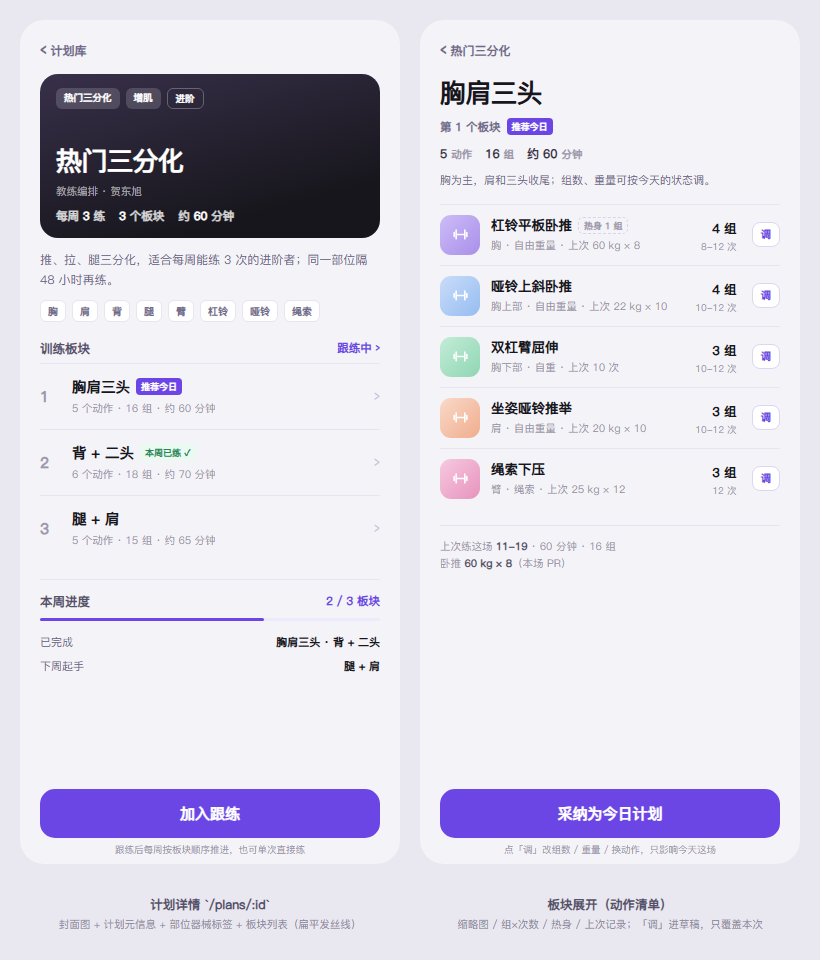
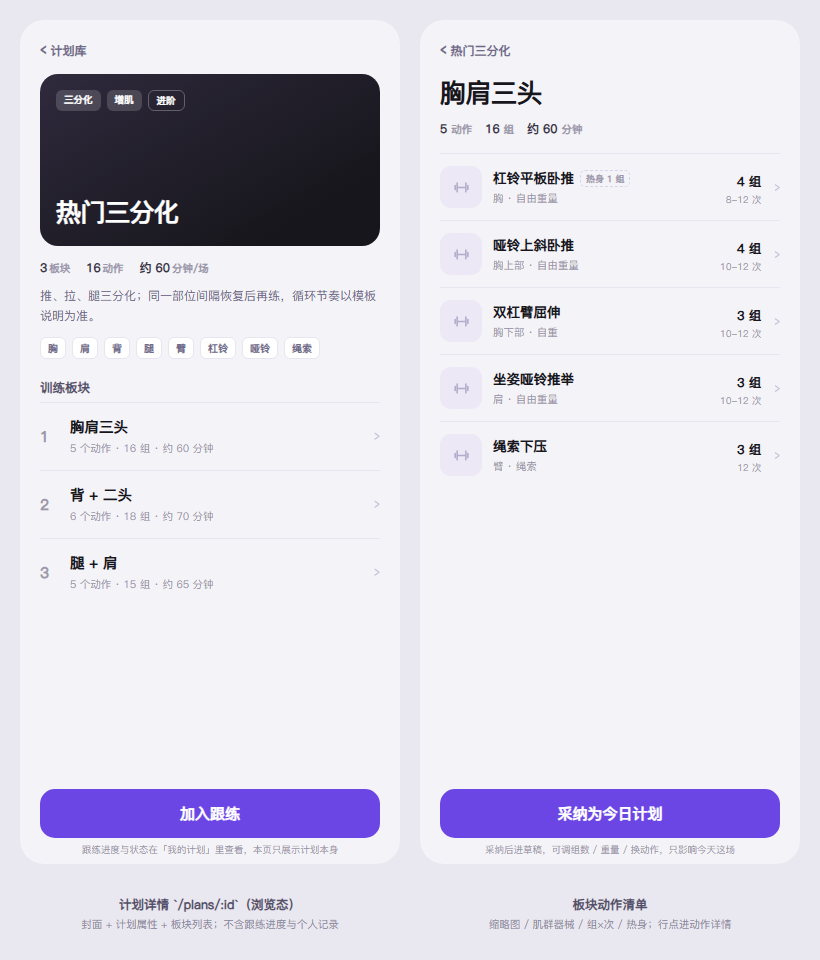
docs(design): 计划详情浏览态精简，去掉跟练状态/作者/频次推断

diff --git a/docs/design/19-计划详情.html b/docs/design/19-计划详情.html
@@ -20,69 +20,48 @@
   .nav-back { display: flex; align-items: center; gap: 4px; font-size: 12px; font-weight: 700; color: #6f6a8c; }
   .nav-back i { font-style: normal; font-size: 17px; }
 
-  /* 计划封面 */
-  .cover { margin-top: 12px; height: 164px; border-radius: 18px; position: relative; overflow: hidden; color: #fff;
-    background: linear-gradient(165deg, #38304a 0%, #17161c 78%); padding: 14px 16px; display: flex; flex-direction: column; }
+  /* 计划封面：只压标题与标签，不堆统计 */
+  .cover { margin-top: 12px; height: 172px; border-radius: 18px; position: relative; overflow: hidden; color: #fff;
+    background: linear-gradient(150deg, #2f2a3d 0%, #17161c 80%); padding: 16px; display: flex; flex-direction: column; }
   .cover-tags { display: flex; gap: 6px; }
   .cover-tag { font-size: 9.5px; font-weight: 700; background: rgba(255,255,255,.16); border-radius: 6px; padding: 3px 8px; }
   .cover-tag.level { background: transparent; border: 1px solid rgba(255,255,255,.28); }
-  .cover-title { font-size: 26px; font-weight: 800; letter-spacing: -.02em; margin-top: auto; }
-  .cover-author { font-size: 10.5px; color: rgba(255,255,255,.6); margin-top: 5px; }
-  .cover-stats { display: flex; gap: 14px; margin-top: 9px; font-size: 11.5px; color: rgba(255,255,255,.82); font-weight: 600; }
-  .cover-stats b { font-weight: 800; color: #fff; }
+  .cover-title { font-size: 25px; font-weight: 800; letter-spacing: -.02em; margin-top: auto; }
 
-  .desc { margin-top: 12px; font-size: 12px; line-height: 1.65; color: #6f6a8c; }
-  .tag-row { display: flex; flex-wrap: wrap; gap: 6px; margin-top: 10px; }
+  /* 计划本身属性：一行，扁平 */
+  .meta-row { display: flex; gap: 16px; margin-top: 13px; font-size: 12px; font-weight: 700; color: #383448; }
+  .meta-row span small { font-size: 10.5px; color: #9b97ad; font-weight: 600; margin-left: 2px; }
+  .desc { margin-top: 10px; font-size: 12px; line-height: 1.65; color: #6f6a8c; }
+  .tag-row { display: flex; flex-wrap: wrap; gap: 6px; margin-top: 11px; }
   .tag { font-size: 10px; font-weight: 700; color: #6f6a8c; border: 1px solid #e8e5f0; border-radius: 6px; padding: 3px 7px; background: #fff; }
 
-  .sec-head { display: flex; align-items: center; justify-content: space-between; margin: 18px 0 2px; }
+  .sec-head { display: flex; align-items: center; margin: 20px 0 2px; }
   .sec-title { font-size: 12.5px; font-weight: 800; color: #54506b; }
-  .sec-more { font-size: 11.5px; font-weight: 700; color: #6b46e5; }
 
-  /* 板块行（扁平 + 发丝线） */
+  /* 板块行：扁平 + 发丝线，无状态标 */
   .blocks { border-top: 1px solid #e8e5f0; margin-top: 6px; }
-  .block { display: flex; align-items: center; gap: 12px; padding: 13px 0; }
+  .block { display: flex; align-items: center; gap: 12px; padding: 14px 0; }
   .block + .block { border-top: 1px solid #e8e5f0; }
-  .block-no { width: 20px; flex: none; font-size: 15px; font-weight: 800; color: #9b97ad; font-variant-numeric: tabular-nums; }
+  .block-no { width: 18px; flex: none; font-size: 15px; font-weight: 800; color: #9b97ad; font-variant-numeric: tabular-nums; }
   .block-main { flex: 1; min-width: 0; }
-  .block-title-row { display: flex; align-items: center; gap: 6px; }
   .block-title { font-size: 14.5px; font-weight: 800; }
-  .badge { font-size: 9px; font-weight: 800; border-radius: 4px; padding: 2px 5px; }
-  .badge.today { background: #6b46e5; color: #fff; }
-  .badge.done { background: #eafaf1; color: #1f8a53; }
   .block-meta { font-size: 10.5px; color: #9b97ad; margin-top: 4px; }
   .block-chev { color: #c6c1da; font-size: 16px; flex: none; }
-
-  .prog { margin-top: 18px; border-top: 1px solid #e8e5f0; padding-top: 13px; }
-  .prog-row { display: flex; justify-content: space-between; font-size: 11px; color: #6f6a8c; padding: 4px 0; }
-  .prog-row b { color: #17161c; font-weight: 800; }
-  .prog-bar { height: 3px; border-radius: 2px; background: #eee9fb; margin-top: 8px; position: relative; }
-  .prog-bar::after { content: ""; position: absolute; left: 0; top: 0; height: 3px; width: 66%; border-radius: 2px; background: #6b46e5; }
-
-  .last { margin-top: 16px; border-top: 1px solid #e8e5f0; padding-top: 12px; font-size: 10.5px; color: #9b97ad; line-height: 1.7; }
-  .last b { color: #54506b; font-weight: 700; }
 
   .cta { position: absolute; left: 20px; right: 20px; bottom: 26px; background: #6b46e5; color: #fff; font-size: 15px; font-weight: 800; text-align: center; padding: 14px 0; border-radius: 15px; }
   .cta-note { position: absolute; left: 20px; right: 20px; bottom: 8px; text-align: center; font-size: 9.5px; color: #9b97ad; }
 
-  /* 右屏：板块展开 */
+  /* 右屏：板块动作清单 */
   .block-head { margin-top: 12px; }
   .bh-title { font-size: 26px; font-weight: 800; letter-spacing: -.02em; }
-  .bh-src { display: flex; align-items: center; gap: 6px; margin-top: 7px; font-size: 11.5px; color: #6f6a8c; font-weight: 600; }
-  .bh-stats { display: flex; gap: 13px; margin-top: 10px; font-size: 12px; font-weight: 700; color: #383448; }
-  .bh-stats small { font-size: 10.5px; color: #9b97ad; font-weight: 600; }
-  .bh-note { margin-top: 10px; font-size: 11px; color: #6f6a8c; line-height: 1.6; }
+  .bh-meta { display: flex; gap: 13px; margin-top: 9px; font-size: 12px; font-weight: 700; color: #383448; }
+  .bh-meta small { font-size: 10.5px; color: #9b97ad; font-weight: 600; }
 
-  .ex-list { border-top: 1px solid #e8e5f0; margin-top: 14px; }
-  .ex { display: flex; align-items: center; gap: 11px; padding: 10px 0; }
+  .ex-list { border-top: 1px solid #e8e5f0; margin-top: 16px; }
+  .ex { display: flex; align-items: center; gap: 11px; padding: 12px 0; }
   .ex + .ex { border-top: 1px solid #e8e5f0; }
-  .ex-thumb { width: 40px; height: 40px; border-radius: 11px; flex: none; display: flex; align-items: center; justify-content: center; }
-  .ex-thumb svg { width: 19px; height: 19px; stroke: #fff; }
-  .t1 { background: linear-gradient(135deg,#cdbcf7,#a98fe9); }
-  .t2 { background: linear-gradient(135deg,#c9dcf8,#96bdf1); }
-  .t3 { background: linear-gradient(135deg,#c3ecd7,#8fd6b4); }
-  .t4 { background: linear-gradient(135deg,#f9d9c9,#f0ad8d); }
-  .t5 { background: linear-gradient(135deg,#f6c9e0,#e793bd); }
+  .ex-thumb { width: 42px; height: 42px; border-radius: 11px; flex: none; background: #ece8f5; display: flex; align-items: center; justify-content: center; }
+  .ex-thumb svg { width: 19px; height: 19px; stroke: #b3abc9; }
   .ex-main { flex: 1; min-width: 0; }
   .ex-name-row { display: flex; align-items: center; gap: 6px; }
   .ex-name { font-size: 13.5px; font-weight: 700; }
@@ -91,34 +70,34 @@
   .ex-sets { flex: none; text-align: right; }
   .ex-sets b { font-size: 12.5px; font-weight: 800; font-variant-numeric: tabular-nums; }
   .ex-sets span { display: block; font-size: 9.5px; color: #9b97ad; margin-top: 2px; }
-  .ex-edit { flex: none; font-size: 10.5px; font-weight: 800; color: #6b46e5; border: 1px solid #ddd6f3; background: #fff; border-radius: 8px; padding: 4px 8px; margin-left: 4px; }
+  .ex-chev { color: #c6c1da; font-size: 15px; flex: none; margin-left: 2px; }
 </style>
 </head>
 <body style="width:820px;height:900px;">
 <main data-canvas-root style="width:820px;height:900px;">
   <div class="stage">
 
-    <!-- 左：计划详情（整份计划 + 板块列表） -->
+    <!-- 左：计划详情（浏览态，只含计划本身信息） -->
     <div class="screen">
       <div class="wrap">
         <div class="nav"><div class="nav-back"><i>‹</i> 计划库</div></div>
 
         <div class="cover">
           <div class="cover-tags">
-            <span class="cover-tag">热门三分化</span>
+            <span class="cover-tag">三分化</span>
             <span class="cover-tag">增肌</span>
             <span class="cover-tag level">进阶</span>
           </div>
           <div class="cover-title">热门三分化</div>
-          <div class="cover-author">教练编排 · 贺东旭</div>
-          <div class="cover-stats">
-            <span>每周 <b>3</b> 练</span>
-            <span><b>3</b> 个板块</span>
-            <span>约 <b>60</b> 分钟</span>
-          </div>
         </div>
 
-        <div class="desc">推、拉、腿三分化，适合每周能练 3 次的进阶者；同一部位隔 48 小时再练。</div>
+        <div class="meta-row">
+          <span>3<small>板块</small></span>
+          <span>16<small>动作</small></span>
+          <span>约 60<small>分钟/场</small></span>
+        </div>
+
+        <div class="desc">推、拉、腿三分化；同一部位间隔恢复后再练，循环节奏以模板说明为准。</div>
 
         <div class="tag-row">
           <span class="tag">胸</span><span class="tag">肩</span><span class="tag">背</span>
@@ -126,18 +105,12 @@
           <span class="tag">杠铃</span><span class="tag">哑铃</span><span class="tag">绳索</span>
         </div>
 
-        <div class="sec-head">
-          <div class="sec-title">训练板块</div>
-          <div class="sec-more">跟练中 ›</div>
-        </div>
+        <div class="sec-head"><div class="sec-title">训练板块</div></div>
         <div class="blocks">
           <div class="block">
             <div class="block-no">1</div>
             <div class="block-main">
-              <div class="block-title-row">
-                <span class="block-title">胸肩三头</span>
-                <span class="badge today">推荐今日</span>
-              </div>
+              <div class="block-title">胸肩三头</div>
               <div class="block-meta">5 个动作 · 16 组 · 约 60 分钟</div>
             </div>
             <div class="block-chev">›</div>
@@ -145,10 +118,7 @@
           <div class="block">
             <div class="block-no">2</div>
             <div class="block-main">
-              <div class="block-title-row">
-                <span class="block-title">背 + 二头</span>
-                <span class="badge done">本周已练 ✓</span>
-              </div>
+              <div class="block-title">背 + 二头</div>
               <div class="block-meta">6 个动作 · 18 组 · 约 70 分钟</div>
             </div>
             <div class="block-chev">›</div>
@@ -156,102 +126,88 @@
           <div class="block">
             <div class="block-no">3</div>
             <div class="block-main">
-              <div class="block-title-row"><span class="block-title">腿 + 肩</span></div>
+              <div class="block-title">腿 + 肩</div>
               <div class="block-meta">5 个动作 · 15 组 · 约 65 分钟</div>
             </div>
             <div class="block-chev">›</div>
           </div>
         </div>
-
-        <div class="prog">
-          <div class="sec-head" style="margin-top:0;">
-            <div class="sec-title">本周进度</div>
-            <div class="sec-more">2 / 3 板块</div>
-          </div>
-          <div class="prog-bar"></div>
-          <div class="prog-row" style="margin-top:9px;"><span>已完成</span><b>胸肩三头 · 背 + 二头</b></div>
-          <div class="prog-row"><span>下周起手</span><b>腿 + 肩</b></div>
-        </div>
       </div>
       <div class="cta">加入跟练</div>
-      <div class="cta-note">跟练后每周按板块顺序推进，也可单次直接练</div>
+      <div class="cta-note">跟练进度与状态在「我的计划」里查看，本页只展示计划本身</div>
     </div>
 
-    <!-- 右：板块展开（动作清单） -->
+    <!-- 右：板块动作清单 -->
     <div class="screen">
       <div class="wrap">
         <div class="nav"><div class="nav-back"><i>‹</i> 热门三分化</div></div>
 
         <div class="block-head">
           <div class="bh-title">胸肩三头</div>
-          <div class="bh-src">第 1 个板块 <span class="badge today">推荐今日</span></div>
-          <div class="bh-stats">
+          <div class="bh-meta">
             <span>5 <small>动作</small></span>
             <span>16 <small>组</small></span>
             <span>约 60 <small>分钟</small></span>
           </div>
-          <div class="bh-note">胸为主，肩和三头收尾；组数、重量可按今天的状态调。</div>
         </div>
 
         <div class="ex-list">
           <div class="ex">
-            <div class="ex-thumb t1"><svg viewBox="0 0 24 24" fill="none" stroke-width="2" stroke-linecap="round"><path d="M6.5 6.5v11M17.5 6.5v11M4 9.5v5M20 9.5v5M6.5 12h11"/></svg></div>
+            <div class="ex-thumb"><svg viewBox="0 0 24 24" fill="none" stroke-width="2" stroke-linecap="round"><path d="M6.5 6.5v11M17.5 6.5v11M4 9.5v5M20 9.5v5M6.5 12h11"/></svg></div>
             <div class="ex-main">
               <div class="ex-name-row"><span class="ex-name">杠铃平板卧推</span><span class="warm">热身 1 组</span></div>
-              <div class="ex-meta">胸 · 自由重量 · 上次 60 kg × 8</div>
+              <div class="ex-meta">胸 · 自由重量</div>
             </div>
             <div class="ex-sets"><b>4 组</b><span>8-12 次</span></div>
-            <div class="ex-edit">调</div>
+            <div class="ex-chev">›</div>
           </div>
           <div class="ex">
-            <div class="ex-thumb t2"><svg viewBox="0 0 24 24" fill="none" stroke-width="2" stroke-linecap="round"><path d="M6.5 6.5v11M17.5 6.5v11M4 9.5v5M20 9.5v5M6.5 12h11"/></svg></div>
+            <div class="ex-thumb"><svg viewBox="0 0 24 24" fill="none" stroke-width="2" stroke-linecap="round"><path d="M6.5 6.5v11M17.5 6.5v11M4 9.5v5M20 9.5v5M6.5 12h11"/></svg></div>
             <div class="ex-main">
               <div class="ex-name-row"><span class="ex-name">哑铃上斜卧推</span></div>
-              <div class="ex-meta">胸上部 · 自由重量 · 上次 22 kg × 10</div>
+              <div class="ex-meta">胸上部 · 自由重量</div>
             </div>
             <div class="ex-sets"><b>4 组</b><span>10-12 次</span></div>
-            <div class="ex-edit">调</div>
+            <div class="ex-chev">›</div>
           </div>
           <div class="ex">
-            <div class="ex-thumb t3"><svg viewBox="0 0 24 24" fill="none" stroke-width="2" stroke-linecap="round"><path d="M6.5 6.5v11M17.5 6.5v11M4 9.5v5M20 9.5v5M6.5 12h11"/></svg></div>
+            <div class="ex-thumb"><svg viewBox="0 0 24 24" fill="none" stroke-width="2" stroke-linecap="round"><path d="M6.5 6.5v11M17.5 6.5v11M4 9.5v5M20 9.5v5M6.5 12h11"/></svg></div>
             <div class="ex-main">
               <div class="ex-name-row"><span class="ex-name">双杠臂屈伸</span></div>
-              <div class="ex-meta">胸下部 · 自重 · 上次 10 次</div>
+              <div class="ex-meta">胸下部 · 自重</div>
             </div>
             <div class="ex-sets"><b>3 组</b><span>10-12 次</span></div>
-            <div class="ex-edit">调</div>
+            <div class="ex-chev">›</div>
           </div>
           <div class="ex">
-            <div class="ex-thumb t4"><svg viewBox="0 0 24 24" fill="none" stroke-width="2" stroke-linecap="round"><path d="M6.5 6.5v11M17.5 6.5v11M4 9.5v5M20 9.5v5M6.5 12h11"/></svg></div>
+            <div class="ex-thumb"><svg viewBox="0 0 24 24" fill="none" stroke-width="2" stroke-linecap="round"><path d="M6.5 6.5v11M17.5 6.5v11M4 9.5v5M20 9.5v5M6.5 12h11"/></svg></div>
             <div class="ex-main">
               <div class="ex-name-row"><span class="ex-name">坐姿哑铃推举</span></div>
-              <div class="ex-meta">肩 · 自由重量 · 上次 20 kg × 10</div>
+              <div class="ex-meta">肩 · 自由重量</div>
             </div>
             <div class="ex-sets"><b>3 组</b><span>10-12 次</span></div>
-            <div class="ex-edit">调</div>
+            <div class="ex-chev">›</div>
           </div>
           <div class="ex">
-            <div class="ex-thumb t5"><svg viewBox="0 0 24 24" fill="none" stroke-width="2" stroke-linecap="round"><path d="M6.5 6.5v11M17.5 6.5v11M4 9.5v5M20 9.5v5M6.5 12h11"/></svg></div>
+            <div class="ex-thumb"><svg viewBox="0 0 24 24" fill="none" stroke-width="2" stroke-linecap="round"><path d="M6.5 6.5v11M17.5 6.5v11M4 9.5v5M20 9.5v5M6.5 12h11"/></svg></div>
             <div class="ex-main">
               <div class="ex-name-row"><span class="ex-name">绳索下压</span></div>
-              <div class="ex-meta">臂 · 绳索 · 上次 25 kg × 12</div>
+              <div class="ex-meta">臂 · 绳索</div>
             </div>
             <div class="ex-sets"><b>3 组</b><span>12 次</span></div>
-            <div class="ex-edit">调</div>
+            <div class="ex-chev">›</div>
           </div>
         </div>
-
-        <div class="last">上次练这场 <b>11-19</b> · 60 分钟 · 16 组<br>卧推 <b>60 kg × 8</b>（本场 PR）</div>
       </div>
       <div class="cta">采纳为今日计划</div>
-      <div class="cta-note">点「调」改组数 / 重量 / 换动作，只影响今天这场</div>
+      <div class="cta-note">采纳后进草稿，可调组数 / 重量 / 换动作，只影响今天这场</div>
     </div>
 
   </div>
 
   <div class="stage">
-    <div class="caption">计划详情 `/plans/:id`<small>封面图 + 计划元信息 + 部位器械标签 + 板块列表（扁平发丝线）</small></div>
-    <div class="caption">板块展开（动作清单）<small>缩略图 / 组×次数 / 热身 / 上次记录；「调」进草稿，只覆盖本次</small></div>
+    <div class="caption">计划详情 `/plans/:id`（浏览态）<small>封面 + 计划属性 + 板块列表；不含跟练进度与个人记录</small></div>
+    <div class="caption">板块动作清单<small>缩略图 / 肌群器械 / 组×次 / 热身；行点进动作详情</small></div>
   </div>
 </main>
 </body>

diff --git a/docs/13-H5页面优化-逐页工单.md b/docs/13-H5页面优化-逐页工单.md
@@ -625,11 +625,13 @@ C 态的目标版式（见桌面 `03-今日页-训练中.png`）：
 - 计划卡片标签建议维度：分化方式、性别（男/女/通用）、目标（增肌/减脂/塑形/力量）、水平；具体标签集合以后台配置为准。
 - 锻炼 / 营养计划切换条预留：营养计划后期再接；本期营养侧只有教练 AI 问答。
 - 计划库全列表 `/plans` 架构：搜索栏 + 锻炼/营养切换 + 分类 chips（横向滑动）+ 分组 2 列封面网格；完整功能收在内部页，训练 tab 主表面只放 2 张预览卡。
-- 计划详情 `/plans/:id`（设计稿 `docs/design/19-计划详情.html/.png`，2026-11-23 改版为双屏）：
-  - **左屏 = 整份计划**：封面图（`cover_url`，深色渐变兜底）+ 标签行（分化/目标/水平）+ 标题 + 作者 + 每周练几次/板块数/时长 + 一句描述 + 部位与器械标签 + 板块列表（扁平发丝线，序号 + 板块名 + 动作数/组数/时长 + `推荐今日` / `本周已练` 状态）+ 本周进度（`week_progress`）+ 底部固定 CTA「加入跟练」。**层级对齐后端 `PlanTemplate → PlanBlock → PlanExercise`**：点进计划先看到整份计划，再点板块看动作；旧版直接画单板块与真实层级不符，已废弃。
-  - **右屏 = 板块展开**：板块名 + 第 N 个板块 + 动作数/组数/时长 + 一句要点；动作行 = 缩略图（`thumb_url` 经 `/api/exercises/resolve`，无图渐变占位）+ 名称 + 目标肌群/器械 + 上次记录 + 组数 × 次数 + 热身组虚线标；行右侧「调」进草稿；底部固定 CTA「采纳为今日计划」。
-  - **组数 / 重量 / 次数的改动口径（已在代码核对）**：`PlanExerciseRow` 只有 `target_sets` / `target_reps` / `warmup_sets`，**没有 target_weight**，计划模板在 H5 侧只读。真正的改动发生在 `POST /plans/{id}/expand` 生成的草稿卡 → `DraftCard`（目标重量 `WeightStepper` 步进 2.5kg、组数 1–10、次数 6-8/8-10/10-12/12-15/力竭、换动作）→ `POST /api/training/adopt` 按 `items` 写入今日场次。**即：改动只覆盖今天这场，不改模板、不加新接口**；详情页动作行因此只读展示 + 「调」入口，不做成可直接改模板。
-  - 周日历选择条本期不画（需后端给计划板块补星期字段），左屏改用 `推荐今日` 标记 + 本周进度替代。
+- 计划详情 `/plans/:id`（设计稿 `docs/design/19-计划详情.html/.png`，2026-11-23 二次精简）：
+  - **定位是浏览态，只展示计划本身**：不掺跟练状态。本期明确砍掉：板块 `推荐今日` / `本周已练` 标、本周进度条、上次练这场的记录、动作行「上次 xx kg × n」、作者署名。这些属于个人训练状态，归「我的计划」与今日页展示，计划库浏览页不出现。
+  - **左屏 = 整份计划**：封面图（`cover_url`，深色渐变兜底）+ 标签行（分化/目标/水平）+ 标题；下方一行计划属性（板块数 / 动作数 / 单场时长）+ 一句描述 + 部位与器械标签；板块列表（扁平发丝线：序号 + 板块名 + 动作数/组数/时长，无状态标）；底部固定 CTA「加入跟练」。**层级对齐后端 `PlanTemplate → PlanBlock → PlanExercise`**：点进计划先看到整份计划，再点板块看动作；旧版直接画单板块与真实层级不符，已废弃。
+  - **右屏 = 板块动作清单**：板块名 + 动作数/组数/时长；动作行 = 缩略图（`thumb_url` 经 `/api/exercises/resolve`，无图中性占位）+ 名称 + 肌群/器械 + 组数 × 次数 + 热身组虚线标，行右侧箭头进动作详情；底部固定 CTA「采纳为今日计划」。
+  - **节奏文案口径（勿前端推断频次）**：三分化是「把训练拆成 3 个部位板块」的分化方式，**不等于每周必须练 3 次**；练 3 休 1（4 天一循环）、练 3 休 2（5 天一循环）、一周两轮都可能。频次/循环节奏以后台模板的 `split_summary` / `days_per_week` 文案为准，前端不要把"三分化"自动翻译成"每周 3 练"。
+  - **组数 / 重量 / 次数的改动口径（已在代码核对）**：`PlanExerciseRow` 只有 `target_sets` / `target_reps` / `warmup_sets`，**没有 target_weight**，计划模板在 H5 侧只读。真正的改动发生在 `POST /plans/{id}/expand` 生成的草稿卡 → `DraftCard`（目标重量 `WeightStepper` 步进 2.5kg、组数 1–10、次数 6-8/8-10/10-12/12-15/力竭、换动作）→ `POST /api/training/adopt` 按 `items` 写入今日场次。**即：改动只覆盖今天这场，不改模板、不加新接口**；详情页动作行只读展示，不做行内「调」按钮，调整入口放在采纳后的草稿层。
+  - 周日历选择条本期不画（需后端给计划板块补星期字段）。
 
 ### 12.5 设计稿索引（`docs/design/`）
 
@@ -639,7 +641,7 @@ C 态的目标版式（见桌面 `03-今日页-训练中.png`）：
 |---|---|---|---|
 | `13-今日页-三态修订-A-C-D.html/.png` | 今日 `/` | A 空态 / C 训练中 / D 已完成（三屏并排）；B 态沿用 §2.10 布局，待并入五态对照 | ✅ 定稿 |
 | `18-训练页-优化v3.html/.png` | 训练 `/training` | 主表面：本周概览 → 计划库 → 主力动作进阶 → 训练资源 | ✅ 定稿（替代早期 14/15/17 版） |
-| `19-计划详情.html/.png` | 计划详情 `/plans/:id` | 双屏：左整份计划（封面+板块列表+本周进度）/ 右板块展开动作行（缩略图+组×次+「调」） | ✅ 定稿（2026-11-23 改版） |
+| `19-计划详情.html/.png` | 计划详情 `/plans/:id` | 浏览态双屏：左整份计划（封面+计划属性+板块列表）/ 右板块动作清单（缩略图+肌群器械+组×次）；不含跟练状态与个人记录 | ✅ 定稿（2026-11-23 二次精简） |
 | `16-计划库全列表.html/.png` | 计划库 `/plans` | 搜索 + 锻炼/营养切换 + 分类 chips + 分组封面网格 | ✅ 定稿 |
 
 > 桌面 `C:\Users\Administrator\Desktop\健身App-今日页实拍\` 里 01–17 为过程稿，不作为落地依据；以 `docs/design/` 内四份为准。
